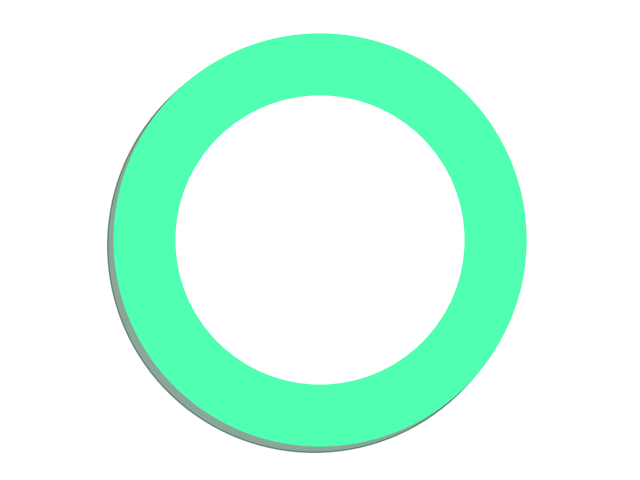
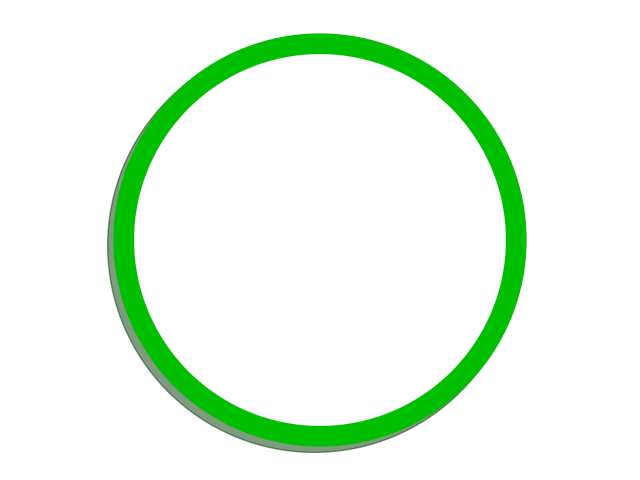
more charts

Changed region(s): [[0.1562, 0.0625, 0.8438, 0.9688]]

diff --git a/backend/plots.py b/backend/plots.py
@@ -42,11 +42,11 @@ def second_pie():
 def a_plus():
     sizes = [100]
 
-    colors = ['#50FFB1']
+    colors = ['#00bf00']
 
     plt.pie(sizes, colors = colors, startangle=90, pctdistance=0.85, shadow=True)
 
-    centre_circle = plt.Circle((0,0),0.70,fc='white')
+    centre_circle = plt.Circle((0,0),0.90,fc='white')
     fig = plt.gcf()
     fig.gca().add_artist(centre_circle)
     # Equal aspect ratio ensures that pie is drawn as a circle
@@ -60,11 +60,11 @@ def a_plus():
 def f():
     sizes = [100]
 
-    colors = ['#ac3235']
+    colors = ['#e60207']
 
     plt.pie(sizes, colors = colors, startangle=90, pctdistance=0.85, shadow=True)
 
-    centre_circle = plt.Circle((0,0),0.70,fc='white')
+    centre_circle = plt.Circle((0,0),0.90,fc='white')
     fig = plt.gcf()
     fig.gca().add_artist(centre_circle)
     # Equal aspect ratio ensures that pie is drawn as a circle
